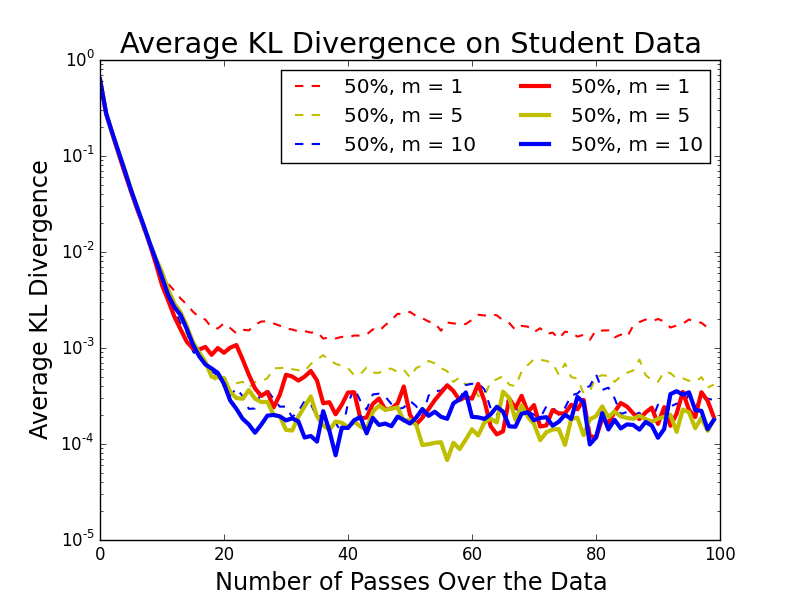
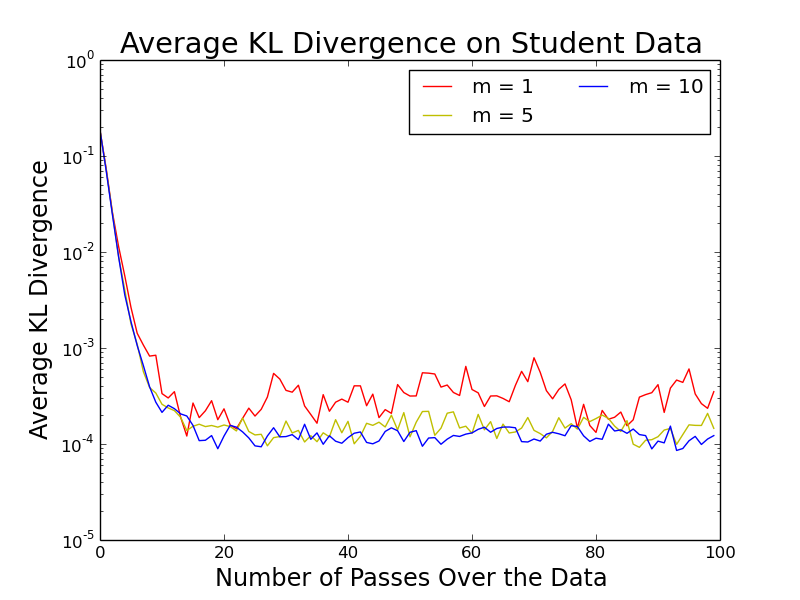
whoops mismanaged a figure. also deleted some of the appendix

diff --git a/iclr2016_conference.tex b/iclr2016_conference.tex
@@ -309,7 +309,7 @@ cheaper and simpler to run as compared to a computing cluster.
   \end{minipage}\hfill
     \begin{minipage}{.5\textwidth}
     \centering
-    \includegraphics[width=1\textwidth]{fig_kl_div_25_50_perc_jags}
+    \includegraphics[width=1\textwidth]{fig_kl_div_25_50_perc}
     \caption{The $KL_{\rm avg}$ for JAGS.}
     \label{fig:kl_jags}
   \end{minipage}
@@ -545,28 +545,6 @@ the Berkeley and National Physical Science Consortium Fellowships.
 \textbf{I expect that we will use eight pages for text, plus the ninth page for references. Then the
 remaining material (if any) will go here.}
 
-\section{Description of Figures (Will Remove in Actual Paper Submission)}
-
-\textbf{I am putting descriptions of how I generated the figures here. In the actual paper, it
-doesn't make sense to have these but I am not sure where else to put it ... it's a lot easier to
-just refer right to the figure here.}
-
-For Figure~\ref{fig:kl_divergence}, I ran the student data with one million students and a batch
-size of 25,000 for SAME parameters 1, 5, and 10. I ran this on \texttt{stout}. For each data, I ran
-it for 100 iterations. Each ``marker'' in the plot represents the AVERAGE over all the $KL_{\rm
-avg}$ metrics, for each mini-batch. Since $1000000/25000=40$, that meant each of the 40 mini-batches
-had the $KL_{\rm avg}$ metric computed, then I averaged them to get one marker. So indeed, the
-x-axis is correct: one marker really does mean one pass over the full data.
-
-If I need to recover all settings, I can check the \texttt{out\_25perc\_01same.txt} and other
-similarly-named files since that captures the BIDMach output.
-
-To me I think it might be more interesting to use FEWER data points since we would see more of a
-clear curve in the plot (well, it's on a log scale but still...). That is easy and I have the code
-base for that in \texttt{iclr2016\_createKLplots.py}, which is what I also used to generate these
-matplotlib images.
-
-For Figure~\ref{fig:mooc_cpts}, I describe this in the Figure6 directory on github.
 
 
 
